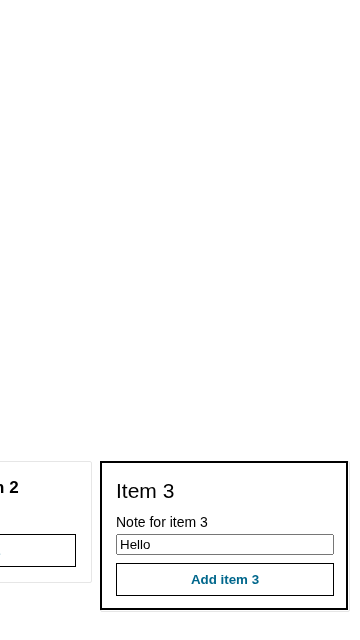
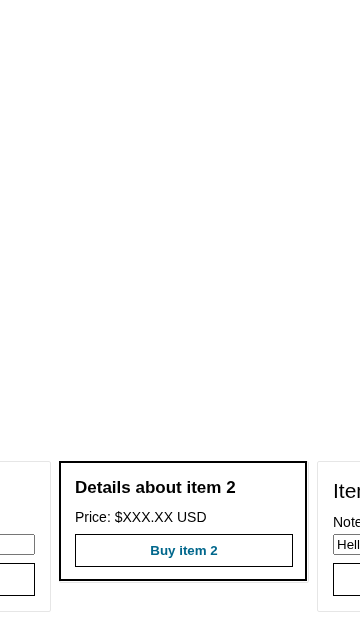
Expect LEFT/RIGHT on the hero card button not to scroll after TAB centers the card

diff --git a/__tests__/html2/carousel/navigation.arrowKeys.formControls.html b/__tests__/html2/carousel/navigation.arrowKeys.formControls.html
@@ -209,27 +209,47 @@
 
         await host.snapshot('local');
 
-        // WHEN: Press TAB twice to focus on the button inside the hero card.
-        await host.sendTab(2);
+        // WHEN: Press TAB to focus on the partially visible hero card.
+        await host.sendTab();
 
-        // THEN: The button inside the hero card should have focus, TAB into the hero card scrolled it into view.
+        // THEN: The hero card should have focus and be scrolled fully into view.
+        await expectFocusOnCard(1);
+
+        const heroCardScrollLeft = carouselFilmstrip.scrollLeft;
+
+        expect(heroCardScrollLeft).toBeGreaterThan(0);
+
+        await host.snapshot('local');
+
+        // WHEN: Press TAB to focus on the button inside the hero card.
+        await host.sendTab();
+
+        // THEN: The button inside the hero card should have focus, the carousel should not scroll.
         expect(document.activeElement).toBe(heroCardButton);
-        await waitFor(() => expect(isCardInView(cards[1])).toBe(true));
         await waitForCarouselSettled();
+        expect(carouselFilmstrip.scrollLeft).toBe(heroCardScrollLeft);
 
-        // WHEN: Press LEFT and RIGHT on the button inside the hero card.
-        // THEN: The button inside the hero card should keep focus.
+        await host.snapshot('local');
+
+        // WHEN: Press LEFT on the button inside the hero card.
         await host.sendKeys('ARROW_LEFT');
-        expect(document.activeElement).toBe(heroCardButton);
 
-        await waitForCarouselScrolled();
+        // THEN: The button inside the hero card should keep focus, the carousel should not scroll.
         expect(document.activeElement).toBe(heroCardButton);
-
-        await host.sendKeys('ARROW_RIGHT');
-        expect(document.activeElement).toBe(heroCardButton);
-
         await waitForCarouselSettled();
-        expect(carouselFilmstrip.scrollLeft).toBe(0);
+        expect(carouselFilmstrip.scrollLeft).toBe(heroCardScrollLeft);
+
+        await host.snapshot('local');
+
+        // WHEN: Press RIGHT on the button inside the hero card.
+        await host.sendKeys('ARROW_RIGHT');
+
+        // THEN: The button inside the hero card should keep focus, the carousel should not scroll.
+        expect(document.activeElement).toBe(heroCardButton);
+        await waitForCarouselSettled();
+        expect(carouselFilmstrip.scrollLeft).toBe(heroCardScrollLeft);
+
+        await host.snapshot('local');
 
         // WHEN: Press SHIFT-TAB to focus on the hero card, then press RIGHT.
         await host.sendShiftTab();
